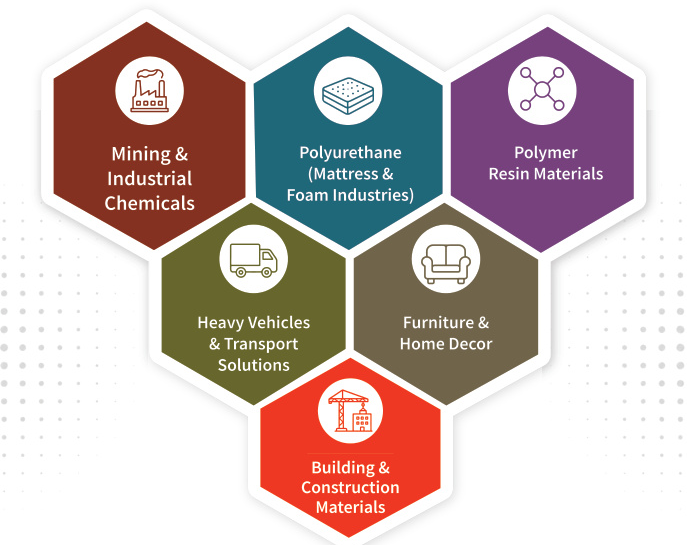
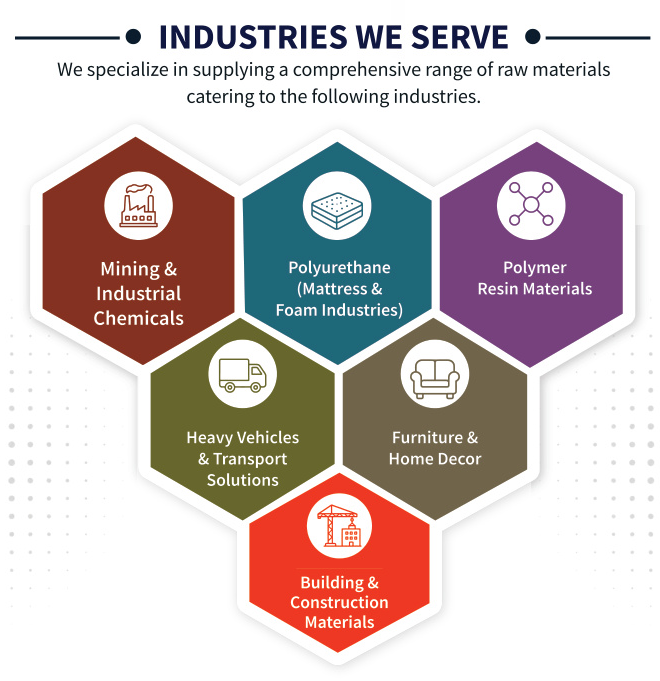
Add industries hexagon image to Project Supply section and update assets

diff --git a/styles.css b/styles.css
@@ -1,4 +1,4 @@
-*{box-sizing:border-box}html{scroll-behavior:smooth}body{margin:0;font-family:"DM Sans",sans-serif;color:#10182b;background:#f8f8f6;line-height:1.55;overflow-x:hidden}body:before{content:"";position:fixed;inset:0;pointer-events:none;background:radial-gradient(circle at 20% 20%,rgba(225,42,32,.035),transparent 30%),radial-gradient(circle at 80% 70%,rgba(15,31,63,.04),transparent 35%);z-index:-1}.cursor-glow{position:fixed;width:260px;height:260px;border-radius:50%;background:radial-gradient(circle,rgba(225,42,32,.12),transparent 65%);pointer-events:none;transform:translate(-50%,-50%);z-index:50;mix-blend-mode:multiply}.progress{position:fixed;top:0;left:0;width:0;height:3px;background:#e12a20;z-index:100}.nav{position:fixed;top:0;left:0;right:0;height:82px;display:flex;align-items:center;justify-content:space-between;padding:0 5vw;background:rgba(255,255,255,.84);backdrop-filter:blur(18px);z-index:90;border-bottom:1px solid rgba(16,24,43,.08)}.brand{display:flex;gap:12px;align-items:center;text-decoration:none;color:#10182b}.brand-mark{font-family:Manrope;font-size:27px;position:relative;width:34px;height:34px;display:grid;place-items:center}.brand-mark span{position:absolute;left:0;top:0;color:#e12a20;font-size:26px}.brand-mark b{position:absolute;right:-1px;bottom:-3px;color:#15284f;font-size:27px}.brand-copy{display:flex;flex-direction:column;line-height:1}.brand-copy strong{font:800 15px Manrope;letter-spacing:.06em}.brand-copy small{font-size:8px;letter-spacing:.13em;margin-top:5px;color:#647086}nav{display:flex;align-items:center;gap:25px}nav a{color:#24304a;text-decoration:none;font-size:13px;font-weight:700;letter-spacing:.02em}nav a:hover{color:#e12a20}.nav-cta{background:#e12a20!important;color:white!important;padding:11px 17px;border-radius:999px}.menu-toggle{display:none;background:none;border:0;font-size:24px}.hero{min-height:92vh;position:relative;display:flex;align-items:center;overflow:hidden;color:#fff}.hero-bg,.contact-bg{position:absolute;inset:0;background-size:cover;background-position:center;transform:scale(1.04)}.hero-overlay{position:absolute;inset:0;background:linear-gradient(90deg,rgba(5,12,27,.88),rgba(5,12,27,.48) 55%,rgba(5,12,27,.2)),linear-gradient(0deg,rgba(5,12,27,.7),transparent 50%)}.hero-grid{position:absolute;inset:0;background-image:linear-gradient(rgba(255,255,255,.04) 1px,transparent 1px),linear-gradient(90deg,rgba(255,255,255,.04) 1px,transparent 1px);background-size:70px 70px;mask-image:linear-gradient(to right,#000,transparent 75%)}.hero-content{position:relative;padding:150px 8vw 130px;max-width:920px}.eyebrow{font-size:11px;letter-spacing:.25em;font-weight:800;margin:0 0 18px;color:#fff}.eyebrow.red{color:#e12a20}.hero h1{font:800 clamp(54px,8vw,120px)/.88 Manrope;letter-spacing:-.065em;margin:0}.hero h1 span{color:#e12a20}.hero-lead{font-size:18px;margin:28px 0 32px;max-width:540px;color:#e8ecf3}.hero-actions{display:flex;gap:12px;flex-wrap:wrap}.btn{display:inline-flex;align-items:center;gap:14px;padding:14px 21px;border-radius:999px;text-decoration:none;font-weight:800;font-size:13px;border:1px solid transparent;transition:.3s transform,.3s box-shadow}.btn:hover{transform:translateY(-3px)}.btn.primary{background:#e12a20;color:white;box-shadow:0 15px 35px rgba(225,42,32,.25)}.btn.ghost{border-color:rgba(255,255,255,.5);color:white;background:rgba(255,255,255,.08);backdrop-filter:blur(10px)}.hero-bottom{position:absolute;bottom:0;left:0;right:0;padding:17px 5vw;display:flex;gap:22px;overflow:auto;white-space:nowrap;background:rgba(3,10,25,.7);backdrop-filter:blur(14px);font-size:9px;letter-spacing:.13em;color:#dce1ea}.stats-strip{display:grid;grid-template-columns:repeat(5,1fr);background:#111c35;color:#fff;padding:25px 5vw}.stats-strip div{text-align:center;border-right:1px solid rgba(255,255,255,.1)}.stats-strip div:last-child{border:0}.stats-strip strong{display:block;font:800 29px Manrope;color:#fff}.stats-strip span{font-size:10px;letter-spacing:.12em;text-transform:uppercase;color:#aeb8ca}.section{padding:110px 7vw}.section.dark{background:#0d1730;color:#fff}.split{display:grid;grid-template-columns:1fr 1fr;gap:7vw;align-items:center}.section-intro h2,.section-head h2{font:800 clamp(38px,5vw,72px)/1.03 Manrope;letter-spacing:-.05em;margin:0 0 24px}.section-intro h2 em,.section-head h2 em,.contact-content h2 em{font-style:normal;color:#e12a20}.section-intro p,.section-head>p{max-width:680px;color:#5d6678}.dark .section-head>p,.dark .section-intro p{color:#aeb7c8}.visual-card{position:relative;border-radius:28px;overflow:hidden;box-shadow:0 30px 70px rgba(15,31,63,.18);background:#ddd}.visual-card img{width:100%;height:620px;object-fit:cover;display:block}.floating-tag{position:absolute;left:22px;bottom:22px;background:#e12a20;color:#fff;padding:11px 16px;border-radius:999px;font-size:10px;font-weight:800;letter-spacing:.12em}.section-head{margin-bottom:48px}.industry-grid{display:grid;grid-template-columns:repeat(3,1fr);gap:16px}.industry-card{min-height:280px;padding:28px;border-radius:22px;background:linear-gradient(135deg,#182546,#0d1730);border:1px solid rgba(255,255,255,.09);position:relative;overflow:hidden;transition:.4s;isolation:isolate}.industry-card:before{content:"";position:absolute;inset:0;background-image:linear-gradient(180deg,transparent 20%,rgba(0,0,0,.82)),var(--card-image);background-size:cover;background-position:center;opacity:.22;z-index:-1;transition:.5s}.industry-card:hover{transform:translateY(-8px);border-color:rgba(225,42,32,.55)}.industry-card:hover:before{opacity:.5;transform:scale(1.06)}.industry-card span,.project-card span{color:#e12a20;font:800 12px Manrope;letter-spacing:.1em}.industry-card h3{font:800 24px/1.08 Manrope;margin:55px 0 12px;max-width:330px}.industry-card p{font-size:13px;color:#b9c2d2;max-width:420px}.industry-extra{display:flex;flex-wrap:wrap;gap:9px;margin-top:25px}.industry-extra span{border:1px solid rgba(255,255,255,.14);border-radius:999px;padding:9px 13px;font-size:9px;letter-spacing:.08em;color:#c6cfdd}.process-line{display:grid;grid-template-columns:repeat(7,1fr);gap:0;position:relative}.process-line:before{content:"";position:absolute;top:20px;left:0;right:0;height:1px;background:#d9dde5}.process-step{position:relative;padding:0 13px 20px}.process-step span{position:relative;z-index:1;width:40px;height:40px;border-radius:50%;display:grid;place-items:center;background:#e12a20;color:#fff;font:800 11px Manrope;box-shadow:0 0 0 8px #f8f8f6}.process-step h3{font:800 16px/1.2 Manrope;margin:25px 0 10px}.process-step p{font-size:11px;color:#667084}.why-grid{display:grid;grid-template-columns:repeat(3,1fr);gap:14px}.why-card{padding:27px;border:1px solid rgba(255,255,255,.1);border-radius:20px;background:rgba(255,255,255,.035);transition:.3s}.why-card:hover{background:rgba(255,255,255,.07);transform:translateY(-5px)}.why-card b{color:#e12a20;font:800 12px Manrope}.why-card h3{font:800 19px/1.2 Manrope}.why-card p{font-size:12px;color:#aeb7c8}.tabs{display:flex;gap:8px;flex-wrap:wrap;margin-bottom:30px}.tab{border:1px solid #dfe3e9;background:white;padding:10px 14px;border-radius:999px;font:700 11px "DM Sans";cursor:pointer;color:#4b566b}.tab.active,.tab:hover{background:#e12a20;color:#fff;border-color:#e12a20}.tab-panel{display:none;animation:fade .4s ease}.tab-panel.active{display:block}@keyframes fade{from{opacity:0;transform:translateY(8px)}to{opacity:1;transform:none}}.product-columns{display:grid;grid-template-columns:repeat(2,1fr);gap:18px}.product-columns.three{grid-template-columns:repeat(3,1fr)}.product-columns.two{grid-template-columns:repeat(2,1fr)}.product-columns>div{padding:23px;border-radius:18px;background:#fff;border:1px solid #e6e8ed;box-shadow:0 10px 30px rgba(15,31,63,.04)}.product-columns h3{font:800 17px Manrope;margin:0 0 12px}.product-columns ul,.project-card ul{margin:0;padding-left:17px}.product-columns li,.project-card li{font-size:11px;margin:6px 0;color:#596477}.flow-row{display:flex;align-items:center;justify-content:center;gap:10px;flex-wrap:wrap;margin-bottom:25px}.flow-row span{padding:12px 14px;border-radius:999px;background:#111c35;color:#fff;font-size:10px;font-weight:800}.flow-row i{color:#e12a20;font-style:normal}.applications{margin-top:20px;padding:15px 18px;background:#111c35;color:#fff;border-radius:14px;font-size:11px;line-height:1.7}.construction-list{display:grid;grid-template-columns:repeat(4,1fr);gap:10px}.construction-list span{padding:16px;background:#fff;border:1px solid #e6e8ed;border-radius:14px;font-size:12px;font-weight:700}.visual-break{min-height:52vh;background-size:cover;background-position:center;position:relative;display:flex;align-items:center;padding:8vw;color:#fff}.visual-break:after{content:"";position:absolute;inset:0;background:linear-gradient(90deg,rgba(8,17,37,.85),rgba(8,17,37,.25))}.visual-break>div{position:relative;z-index:1}.visual-break h2{font:800 clamp(42px,6vw,82px)/.98 Manrope;letter-spacing:-.05em;margin:0}.project-section{background:#f2f2ef}.project-grid{display:grid;grid-template-columns:repeat(3,1fr);gap:16px}.project-card{background:#fff;border:1px solid #e3e5e9;border-radius:20px;padding:26px;min-height:245px;transition:.3s}.project-card:hover{transform:translateY(-6px);box-shadow:0 18px 45px rgba(15,31,63,.08)}.project-card h3{font:800 22px Manrope;margin:22px 0 12px}.project-card p{font-size:12px;color:#606b7e}.project-ribbon{margin-top:18px;text-align:center;background:#111c35;color:#fff;padding:14px;border-radius:999px;font-size:9px;letter-spacing:.12em}.visual-services{display:grid;grid-template-columns:1.15fr .85fr;gap:6vw;align-items:center}.service-visual{border-radius:24px;overflow:hidden}.service-visual img{width:100%;display:block}.global-map{border-radius:25px;overflow:hidden;box-shadow:0 20px 60px rgba(15,31,63,.1)}.global-map img{width:100%;display:block}.locations{display:grid;grid-template-columns:repeat(3,1fr);gap:16px;margin-top:22px}.locations article{background:#fff;border:1px solid #e3e6eb;border-radius:20px;padding:24px}.locations h3{font:800 19px Manrope;margin-top:0}.locations p{font-size:11px;color:#5d6779}.countries{text-align:center;color:#687286;font-size:11px;margin-top:25px}.contact-hero{min-height:65vh;position:relative;display:grid;place-items:center;color:#fff;text-align:center;overflow:hidden}.contact-bg{filter:saturate(.9)}.contact-overlay{position:absolute;inset:0;background:rgba(5,12,27,.72)}.contact-content{position:relative;z-index:1;padding:90px 20px}.contact-content h2{font:800 clamp(52px,8vw,110px)/.9 Manrope;letter-spacing:-.06em;margin:0 0 30px}.contact-actions{display:flex;justify-content:center;gap:10px;flex-wrap:wrap}.website{font-size:12px;letter-spacing:.12em;margin-top:24px}footer{background:#080f21;color:#aeb7c8;padding:28px 6vw;display:flex;justify-content:space-between;gap:20px;align-items:center;font-size:10px}footer strong{color:#fff;font:800 13px Manrope;display:block}footer span{font-size:8px;letter-spacing:.13em}@media(max-width:1000px){nav{gap:13px}.industry-grid,.why-grid,.project-grid{grid-template-columns:repeat(2,1fr)}.process-line{grid-template-columns:repeat(2,1fr);gap:20px}.process-line:before{display:none}.product-columns.three{grid-template-columns:repeat(2,1fr)}.construction-list{grid-template-columns:repeat(2,1fr)}.locations{grid-template-columns:1fr}.stats-strip{grid-template-columns:repeat(3,1fr);gap:15px}.stats-strip div:nth-child(3){border:0}.stats-strip div:nth-child(n+4){display:none}}@media(max-width:760px){.nav{height:70px}.menu-toggle{display:block}.nav nav{display:none;position:absolute;top:70px;left:0;right:0;background:#fff;padding:20px;flex-direction:column;align-items:stretch;box-shadow:0 15px 30px rgba(0,0,0,.1)}.nav.open nav{display:flex}.nav-cta{text-align:center}.hero-content{padding:135px 7vw 125px}.hero h1{font-size:56px}.section{padding:78px 6vw}.split,.visual-services{grid-template-columns:1fr}.industry-grid,.why-grid,.project-grid,.product-columns,.product-columns.three,.product-columns.two{grid-template-columns:1fr}.stats-strip{grid-template-columns:repeat(2,1fr)}.process-line{grid-template-columns:1fr}.construction-list{grid-template-columns:1fr}.visual-card img{height:430px}footer{flex-direction:column;align-items:flex-start}.cursor-glow{display:none}}.reveal{opacity:0;transform:translateY(28px);transition:opacity .8s ease,transform .8s ease}.reveal.visible{opacity:1;transform:none}.tilt{transition:transform .2s ease}
+*{box-sizing:border-box}html{scroll-behavior:smooth}body{margin:0;font-family:"DM Sans",sans-serif;color:#10182b;background:#f8f8f6;line-height:1.55;overflow-x:hidden}body:before{content:"";position:fixed;inset:0;pointer-events:none;background:radial-gradient(circle at 20% 20%,rgba(225,42,32,.035),transparent 30%),radial-gradient(circle at 80% 70%,rgba(15,31,63,.04),transparent 35%);z-index:-1}.cursor-glow{position:fixed;width:260px;height:260px;border-radius:50%;background:radial-gradient(circle,rgba(225,42,32,.12),transparent 65%);pointer-events:none;transform:translate(-50%,-50%);z-index:50;mix-blend-mode:multiply}.progress{position:fixed;top:0;left:0;width:0;height:3px;background:#e12a20;z-index:100}.nav{position:fixed;top:0;left:0;right:0;height:82px;display:flex;align-items:center;justify-content:space-between;padding:0 5vw;background:rgba(255,255,255,.84);backdrop-filter:blur(18px);z-index:90;border-bottom:1px solid rgba(16,24,43,.08)}.brand{display:flex;gap:12px;align-items:center;text-decoration:none;color:#10182b}.brand-mark{font-family:Manrope;font-size:27px;position:relative;width:34px;height:34px;display:grid;place-items:center}.brand-mark span{position:absolute;left:0;top:0;color:#e12a20;font-size:26px}.brand-mark b{position:absolute;right:-1px;bottom:-3px;color:#15284f;font-size:27px}.brand-copy{display:flex;flex-direction:column;line-height:1}.brand-copy strong{font:800 15px Manrope;letter-spacing:.06em}.brand-copy small{font-size:8px;letter-spacing:.13em;margin-top:5px;color:#647086}nav{display:flex;align-items:center;gap:25px}nav a{color:#24304a;text-decoration:none;font-size:13px;font-weight:700;letter-spacing:.02em}nav a:hover{color:#e12a20}.nav-cta{background:#e12a20!important;color:white!important;padding:11px 17px;border-radius:999px}.menu-toggle{display:none;background:none;border:0;font-size:24px}.hero{min-height:92vh;position:relative;display:flex;align-items:center;overflow:hidden;color:#fff}.hero-bg,.contact-bg{position:absolute;inset:0;background-size:cover;background-position:center;transform:scale(1.04)}.hero-overlay{position:absolute;inset:0;background:linear-gradient(90deg,rgba(5,12,27,.88),rgba(5,12,27,.48) 55%,rgba(5,12,27,.2)),linear-gradient(0deg,rgba(5,12,27,.7),transparent 50%)}.hero-grid{position:absolute;inset:0;background-image:linear-gradient(rgba(255,255,255,.04) 1px,transparent 1px),linear-gradient(90deg,rgba(255,255,255,.04) 1px,transparent 1px);background-size:70px 70px;mask-image:linear-gradient(to right,#000,transparent 75%)}.hero-content{position:relative;padding:150px 8vw 130px;max-width:920px}.eyebrow{font-size:20px;letter-spacing:.25em;font-weight:800;margin:0 0 18px;color:#fff}.eyebrow.red{color:#e12a20}.hero h1{font:800 clamp(54px,8vw,120px)/.88 Manrope;letter-spacing:-.065em;margin:0}.hero h1 span{color:#e12a20}.hero-lead{font-size:18px;margin:28px 0 32px;max-width:540px;color:#e8ecf3}.hero-actions{display:flex;gap:12px;flex-wrap:wrap}.btn{display:inline-flex;align-items:center;gap:14px;padding:14px 21px;border-radius:999px;text-decoration:none;font-weight:800;font-size:13px;border:1px solid transparent;transition:.3s transform,.3s box-shadow}.btn:hover{transform:translateY(-3px)}.btn.primary{background:#e12a20;color:white;box-shadow:0 15px 35px rgba(225,42,32,.25)}.btn.ghost{border-color:rgba(255,255,255,.5);color:white;background:rgba(255,255,255,.08);backdrop-filter:blur(10px)}.hero-bottom{position:absolute;bottom:0;left:0;right:0;padding:17px 5vw;display:flex;gap:22px;overflow:auto;white-space:nowrap;background:rgba(3,10,25,.7);backdrop-filter:blur(14px);font-size:9px;letter-spacing:.13em;color:#dce1ea}.stats-strip{display:grid;grid-template-columns:repeat(4,1fr);background:#111c35;color:#fff;padding:25px 5vw}.stats-strip div{text-align:center;border-right:1px solid rgba(255,255,255,.1)}.stats-strip div:last-child{border:0}.stats-strip strong{display:block;font:800 29px Manrope;color:#fff}.stats-strip span{font-size:10px;letter-spacing:.12em;text-transform:uppercase;color:#aeb8ca}.section{padding:110px 7vw}.section.dark{background:#0d1730;color:#fff}.split{display:grid;grid-template-columns:1fr 1fr;gap:7vw;align-items:center}.section-intro h2,.section-head h2{font:800 clamp(38px,5vw,72px)/1.03 Manrope;letter-spacing:-.05em;margin:0 0 24px}.section-intro h2 em,.section-head h2 em,.contact-content h2 em{font-style:normal;color:#e12a20}.section-intro p,.section-head>p{max-width:680px;color:#5d6678}.dark .section-head>p,.dark .section-intro p{color:#aeb7c8}.visual-card{position:relative;border-radius:28px;overflow:hidden;box-shadow:0 30px 70px rgba(15,31,63,.18);background:#ddd}.visual-card img{width:100%;height:620px;object-fit:cover;display:block}.floating-tag{position:absolute;left:22px;bottom:22px;background:#e12a20;color:#fff;padding:11px 16px;border-radius:999px;font-size:10px;font-weight:800;letter-spacing:.12em}.section-head{margin-bottom:48px}.industry-grid{display:grid;grid-template-columns:repeat(3,1fr);gap:16px}.industry-card{min-height:280px;padding:28px;border-radius:22px;background:linear-gradient(135deg,#182546,#0d1730);border:1px solid rgba(255,255,255,.09);position:relative;overflow:hidden;transition:.4s;isolation:isolate}.industry-card:before{content:"";position:absolute;inset:0;background-image:linear-gradient(180deg,transparent 20%,rgba(0,0,0,.82)),var(--card-image);background-size:cover;background-position:center;opacity:.22;z-index:-1;transition:.5s}.industry-card:hover{transform:translateY(-8px);border-color:rgba(225,42,32,.55)}.industry-card:hover:before{opacity:.5;transform:scale(1.06)}.industry-card span,.project-card span{color:#e12a20;font:800 12px Manrope;letter-spacing:.1em}.industry-card h3{font:800 24px/1.08 Manrope;margin:55px 0 12px;max-width:330px}.industry-card p{font-size:13px;color:#b9c2d2;max-width:420px}.industry-extra{display:flex;flex-wrap:wrap;gap:9px;margin-top:25px}.industry-extra span{border:1px solid rgba(255,255,255,.14);border-radius:999px;padding:9px 13px;font-size:9px;letter-spacing:.08em;color:#c6cfdd}.process-line{display:grid;grid-template-columns:repeat(7,1fr);gap:0;position:relative}.process-line:before{content:"";position:absolute;top:20px;left:0;right:0;height:1px;background:#d9dde5}.process-step{position:relative;padding:0 13px 20px}.process-step span{position:relative;z-index:1;width:40px;height:40px;border-radius:50%;display:grid;place-items:center;background:#e12a20;color:#fff;font:800 11px Manrope;box-shadow:0 0 0 8px #f8f8f6}.process-step h3{font:800 16px/1.2 Manrope;margin:25px 0 10px}.process-step p{font-size:11px;color:#667084}.why-grid{display:grid;grid-template-columns:repeat(3,1fr);gap:14px}.why-card{padding:27px;border:1px solid rgba(255,255,255,.1);border-radius:20px;background:rgba(255,255,255,.035);transition:.3s}.why-card:hover{background:rgba(255,255,255,.07);transform:translateY(-5px)}.why-card b{color:#e12a20;font:800 12px Manrope}.why-card h3{font:800 19px/1.2 Manrope}.why-card p{font-size:12px;color:#aeb7c8}.tabs{display:flex;gap:8px;flex-wrap:wrap;margin-bottom:30px}.tab{border:1px solid #dfe3e9;background:white;padding:10px 14px;border-radius:999px;font:700 11px "DM Sans";cursor:pointer;color:#4b566b}.tab.active,.tab:hover{background:#e12a20;color:#fff;border-color:#e12a20}.tab-panel{display:none;animation:fade .4s ease}.tab-panel.active{display:block}@keyframes fade{from{opacity:0;transform:translateY(8px)}to{opacity:1;transform:none}}.product-columns{display:grid;grid-template-columns:repeat(2,1fr);gap:18px}.product-columns.three{grid-template-columns:repeat(3,1fr)}.product-columns.two{grid-template-columns:repeat(2,1fr)}.product-columns>div{padding:23px;border-radius:18px;background:#fff;border:1px solid #e6e8ed;box-shadow:0 10px 30px rgba(15,31,63,.04)}.product-columns h3{font:800 17px Manrope;margin:0 0 12px}.product-columns ul,.project-card ul{margin:0;padding-left:17px}.product-columns li,.project-card li{font-size:11px;margin:6px 0;color:#596477}.flow-row{display:flex;align-items:center;justify-content:center;gap:6px;flex-wrap:nowrap;text-align: center;margin-bottom:25px}.flow-row span{padding:12px 14px;border-radius:999px;background:#111c35;color:#fff;font-size:10px;font-weight:800}.flow-row i{color:#e12a20;font-style:normal}.applications{margin-top:20px;padding:15px 18px;background:#111c35;color:#fff;border-radius:14px;font-size:11px;line-height:1.7}.construction-list{display:grid;grid-template-columns:repeat(4,1fr);gap:10px}.construction-list span{padding:16px;background:#fff;border:1px solid #e6e8ed;border-radius:14px;font-size:12px;font-weight:700}.visual-break{min-height:52vh;background-size:cover;background-position:center;position:relative;display:flex;align-items:center;padding:8vw;color:#fff}.visual-break:after{content:"";position:absolute;inset:0;background:linear-gradient(90deg,rgba(8,17,37,.85),rgba(8,17,37,.25))}.visual-break>div{position:relative;z-index:1}.visual-break h2{font:800 clamp(42px,6vw,82px)/.98 Manrope;letter-spacing:-.05em;margin:0}.project-section{background:#f2f2ef}.project-grid{display:grid;grid-template-columns:repeat(3,1fr);gap:16px}.project-card{background:#fff;border:1px solid #e3e5e9;border-radius:20px;padding:26px;min-height:245px;transition:.3s}.project-card:hover{transform:translateY(-6px);box-shadow:0 18px 45px rgba(15,31,63,.08)}.project-card h3{font:800 22px Manrope;margin:22px 0 12px}.project-card p{font-size:12px;color:#606b7e}.project-ribbon{margin-top:18px;text-align:center;background:#111c35;color:#fff;padding:14px;border-radius:999px;font-size:9px;letter-spacing:.12em}.visual-services{display:grid;grid-template-columns:1.15fr .85fr;gap:6vw;align-items:center}.service-visual{border-radius:24px;overflow:hidden;background:#fff;box-shadow:0 25px 60px rgba(0,0,0,.35)}.service-visual img{width:100%;display:block}.global-map{border-radius:25px;overflow:hidden;box-shadow:0 20px 60px rgba(15,31,63,.1)}.global-map img{width:100%;display:block}.locations{display:grid;grid-template-columns:repeat(3,1fr);gap:16px;margin-top:22px}.locations article{background:#fff;border:1px solid #e3e6eb;border-radius:20px;padding:24px}.locations h3{font:800 19px Manrope;margin-top:0}.locations p{font-size:11px;color:#5d6779}.countries{text-align:center;color:#687286;font-size:11px;margin-top:25px}.contact-hero{min-height:65vh;position:relative;display:grid;place-items:center;color:#fff;text-align:center;overflow:hidden}.contact-bg{filter:saturate(.9)}.contact-overlay{position:absolute;inset:0;background:rgba(5,12,27,.72)}.contact-content{position:relative;z-index:1;padding:90px 20px}.contact-content h2{font:800 clamp(52px,8vw,110px)/.9 Manrope;letter-spacing:-.06em;margin:0 0 30px}.contact-actions{display:flex;justify-content:center;gap:10px;flex-wrap:wrap}.website{font-size:12px;letter-spacing:.12em;margin-top:24px}footer{background:#080f21;color:#aeb7c8;padding:28px 6vw;display:flex;justify-content:space-between;gap:20px;align-items:center;font-size:10px}footer strong{color:#fff;font:800 13px Manrope;display:block}footer span{font-size:8px;letter-spacing:.13em}@media(max-width:1000px){nav{gap:13px}.industry-grid,.why-grid,.project-grid{grid-template-columns:repeat(2,1fr)}.process-line{grid-template-columns:repeat(2,1fr);gap:20px}.process-line:before{display:none}.product-columns.three{grid-template-columns:repeat(2,1fr)}.construction-list{grid-template-columns:repeat(2,1fr)}.locations{grid-template-columns:1fr}.stats-strip{grid-template-columns:repeat(3,1fr);gap:15px}.stats-strip div:nth-child(3){border:0}.stats-strip div:nth-child(n+4){display:none}}@media(max-width:760px){.nav{height:70px}.menu-toggle{display:block}.nav nav{display:none;position:absolute;top:70px;left:0;right:0;background:#fff;padding:20px;flex-direction:column;align-items:stretch;box-shadow:0 15px 30px rgba(0,0,0,.1)}.nav.open nav{display:flex}.nav-cta{text-align:center}.hero-content{padding:135px 7vw 125px}.hero h1{font-size:56px}.section{padding:78px 6vw}.split,.visual-services{grid-template-columns:1fr}.industry-grid,.why-grid,.project-grid,.product-columns,.product-columns.three,.product-columns.two{grid-template-columns:1fr}.stats-strip{grid-template-columns:repeat(2,1fr)}.process-line{grid-template-columns:1fr}.construction-list{grid-template-columns:1fr}.visual-card img{height:430px}footer{flex-direction:column;align-items:flex-start}.cursor-glow{display:none}}.reveal{opacity:0;transform:translateY(28px);transition:opacity .8s ease,transform .8s ease}.reveal.visible{opacity:1;transform:none}.tilt{transition:transform .2s ease}
 /* About Us Full Width Layout */
 .about-section{padding:90px 8vw 100px;background:#fcfcfb;border-bottom:1px solid rgba(16,24,43,.06)}
 .about-full{max-width:1160px;margin:0 auto}

diff --git a/index.html b/index.html
@@ -11,7 +11,6 @@
   <link rel="stylesheet" href="styles.css" />
 </head>
 <body>
-  <div class="cursor-glow"></div>
   <div class="progress"></div>
 
   <header class="nav" id="top">
@@ -39,7 +38,7 @@
       <div class="hero-overlay"></div>
       <div class="hero-grid"></div>
       <div class="hero-content reveal">
-        <p class="eyebrow">OSIA GLOBAL (HK) LTD.</p>
+        <p class="eyebrow" style="font-size: 30px;">OSIA GLOBAL (HK) LTD.</p>
         <h1>CONNECTING<br><span>THE WORLD</span></h1>
         <p class="hero-lead">Trusted partner across multiple industries.</p>
         <div class="hero-actions">
@@ -63,11 +62,10 @@
 
     <section class="section about-section" id="about">
       <div class="about-full reveal">
-        <p class="eyebrow red">ABOUT US</p>
-        <h2>CONNECTING<br><em>THE WORLD</em></h2>
+        <p class="eyebrow red" style="font-size: 30px;">ABOUT US</p>
         <div class="about-text-content">
           <p class="about-lead">Established in 2020, <strong>OSIA GLOBAL HK LTD</strong> is a Hong Kong-based global sourcing, supply, and trading company offering a wide range of industrial and commercial products. With a strong focus on quality, reliability, and customer satisfaction, we serve industries worldwide with cost-effective and innovative solutions.</p>
-          <p>Backed by a strong network of trusted manufacturers, stringent quality control, and a customer-centric approach, we aim to build long-term partnerships and contribute to the success of our clients across the globe.</p>
+          <p class="about-lead">Backed by a strong network of trusted manufacturers, stringent quality control, and a customer-centric approach, we aim to build long-term partnerships and contribute to the success of our clients across the globe.</p>
         </div>
       </div>
     </section>
@@ -192,7 +190,7 @@
       </div>
 
       <div class="tab-panel" id="foam">
-        <div class="flow-row"><span>RAW FOAM MATERIALS</span><i>→</i><span>FOAM FORMULATION</span><i>→</i><span>FOAM CUTTING & PROCESSING</span><i>→</i><span>MATTRESS / FURNITURE / AUTOMOTIVE</span></div>
+        <div class="flow-row"><span>RAW MATERIALS</span><i>→</i><span>FOAM FORMULATION</span><i>→</i><span>FOAM PRODUCTION</span><i>→</i><span>FOAM CUTTING & PROCESSING</span><i>→</i><span>MATTRESS / FURNITURE / AUTOMOTIVE</span></div>
         <div class="product-columns three">
           <div><h3>Raw Materials</h3><ul><li>Polyol</li><li>TDI</li><li>MDI (Methylene Diphenyl Diisocyanate)</li><li>Methylene Chloride (MC)</li><li>Foam Chemicals (Silicone Surfactants, Polyether, Blends & Amine Catalysts)</li><li>Stannous Octoate (T-9 Catalyst)</li></ul></div>
           <div><h3>Mattress & Accessories</h3><ul><li>Mattress Fabrics (Brushed Polyester, Tricot, Knitted, Pongee)</li><li>Mattress Accessories (Mattress Covers, Tape Edge, Air Vents, Handles, Labels, Pocket Springs & Protectors)</li><li>Steel Wire</li><li>Non Woven</li><li>Thread</li><li>PVC Film, Color Paper, Kraft Paper</li></ul></div>
@@ -239,10 +237,6 @@
       </div>
     </div>
 
-    <section class="visual-break" style="background-image:url('assets/page-3.jpg')">
-      <div><p class="eyebrow">SUPPLY CHAIN</p><h2>Structured sourcing.<br>Transparent coordination.</h2></div>
-    </section>
-
     <section class="section project-section" id="projects">
       <div class="section-head reveal">
         <p class="eyebrow red">PROJECT SUPPLY</p>
@@ -260,12 +254,14 @@
     </section>
 
     <section class="section dark visual-services">
-      <div class="service-visual reveal"><img src="assets/page-11.jpg" alt="OSIA GLOBAL project supply" /></div>
       <div class="section-intro reveal">
         <p class="eyebrow red">PROJECT SUPPLY</p>
-        <h2>One partner for your<br><em>project needs.</em></h2>
+        <h2>One partner for your project needs.</h2>
         <p>From product sourcing to complete project requirements, OSIA GLOBAL provides sourcing and supply support across residential, commercial, hospitality, retail, industrial and international projects.</p>
         <a class="btn primary" href="#contact">Discuss Your Requirement <span>↗</span></a>
+      </div>
+      <div class="service-visual reveal">
+        <img src="assets/industries-hexagon.png" alt="OSIA GLOBAL Industries Hexagon" />
       </div>
     </section>
 
